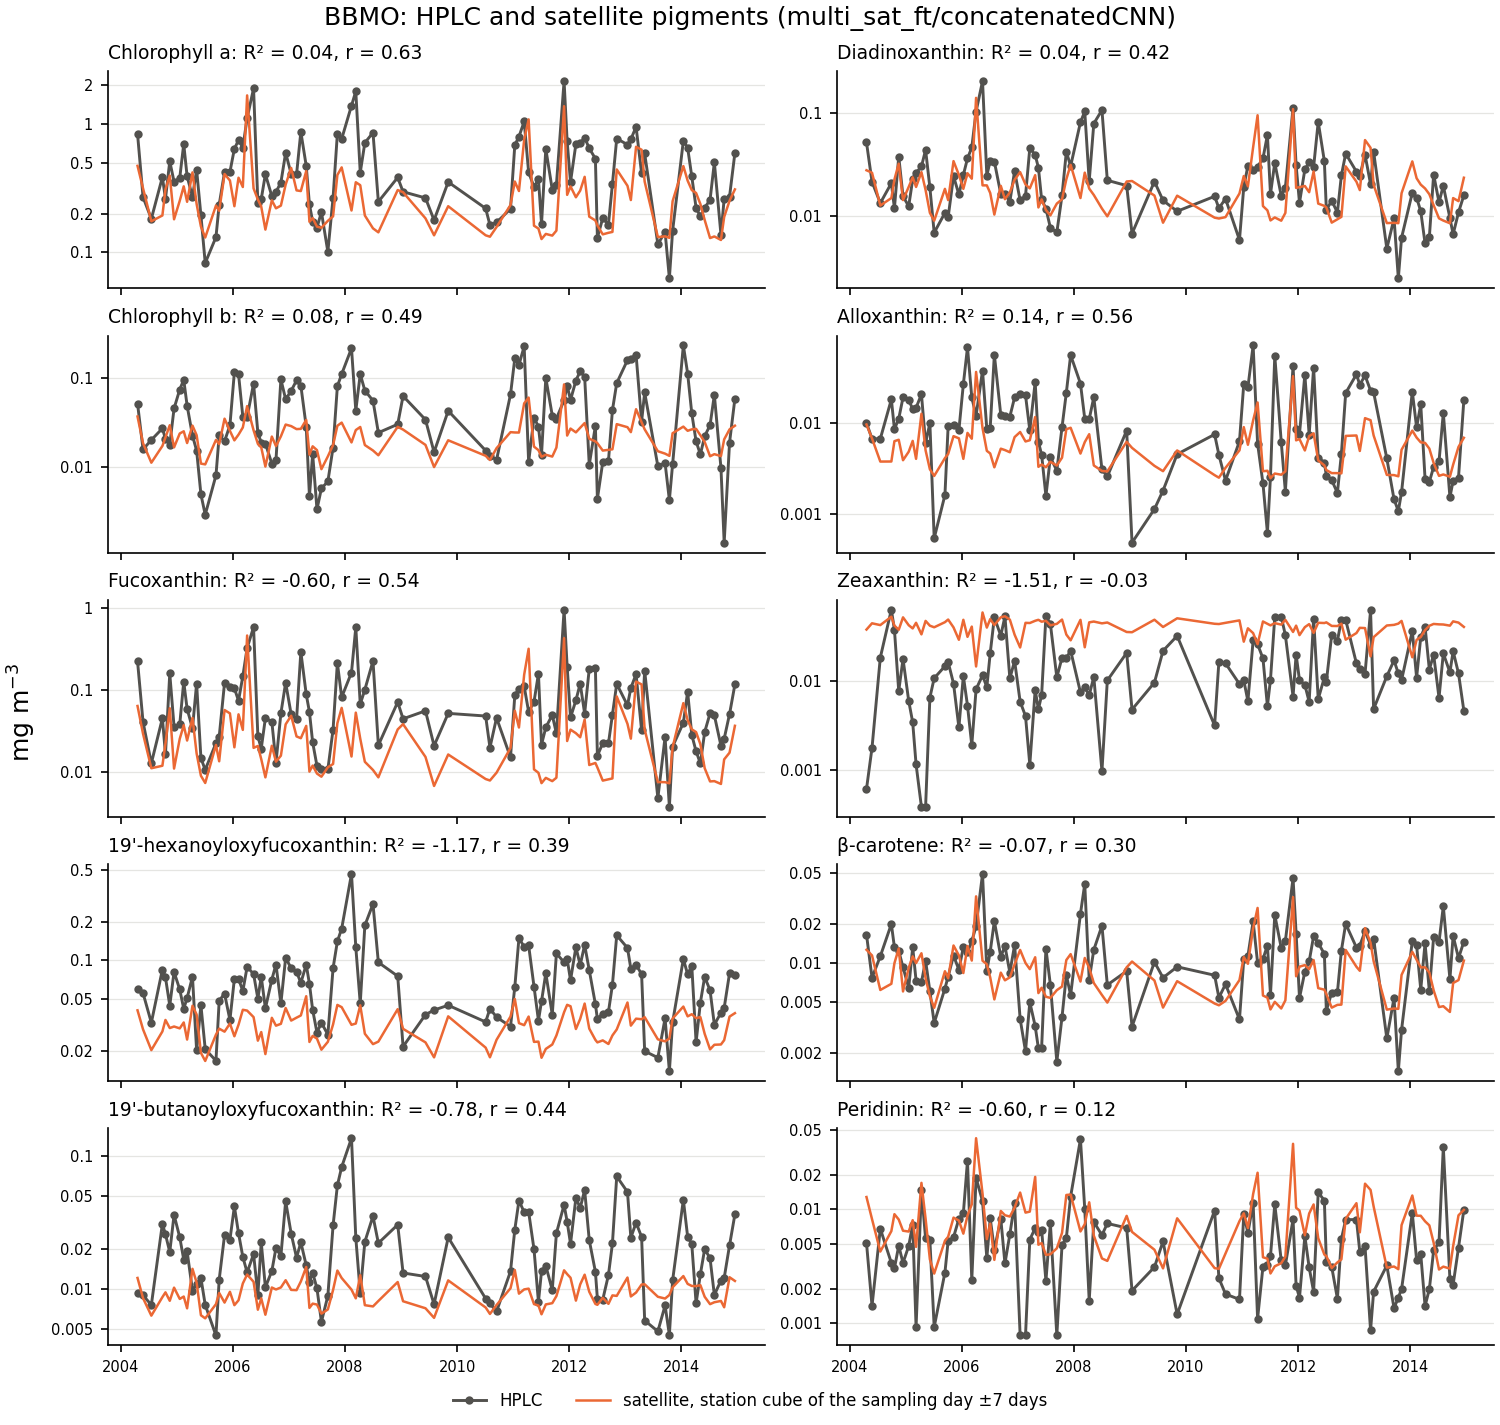
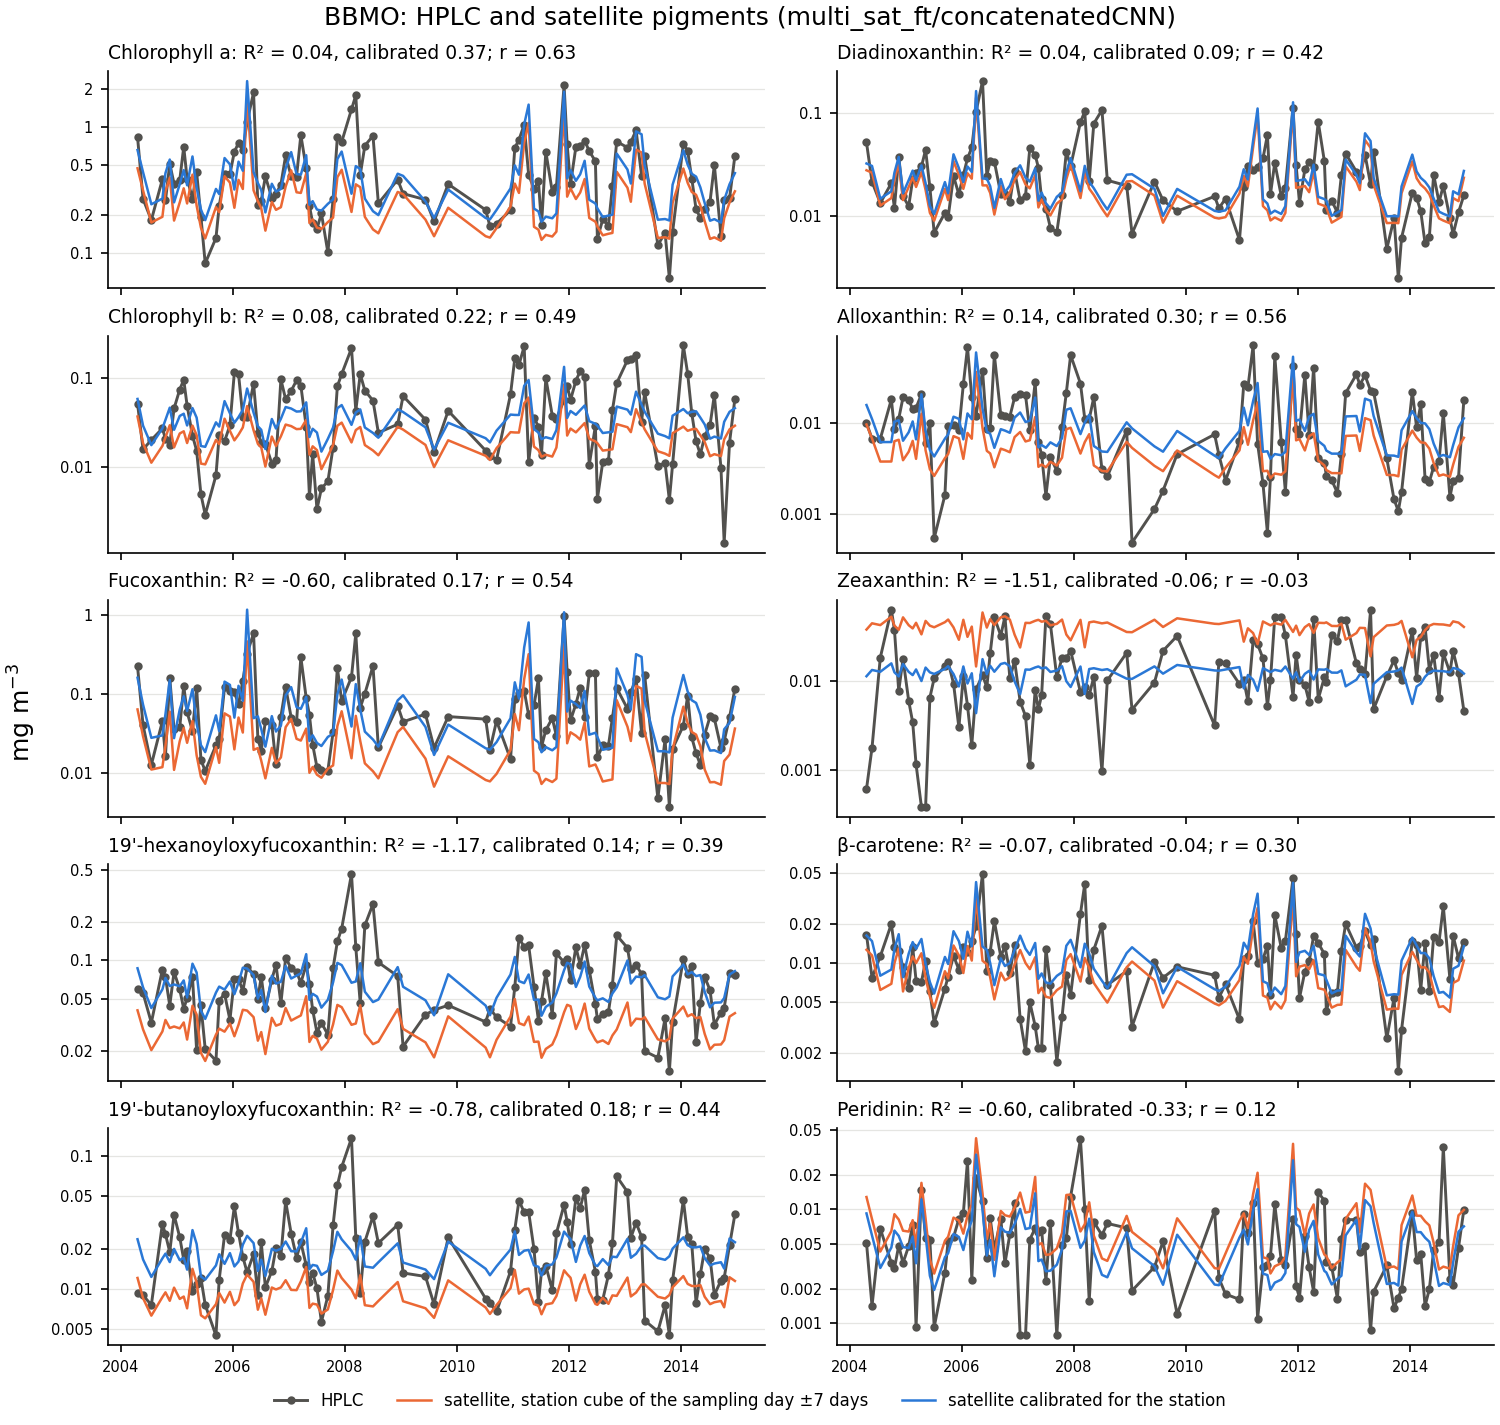
Calibrate the Task 1 pigments per station against HPLC in the check

diff --git a/task1/scripts/hplc_check.py b/task1/scripts/hplc_check.py
@@ -10,6 +10,12 @@ their median is compared with the HPLC pigments, for the 10 pigments of the prop
 Pearson r of ln(pigment), and MAPE and MPE (bias) of the concentrations, as in the Task 1 paper.
 Writes task1/data/hplc_check.csv and, for the model of the record, task1/figures/hplc_check.png
 (each pigment, all samples) and task1/figures/hplc_series_<station>.png (each pigment over time).
+
+The bias of the model depends on the station, so the model of the record is also calibrated per
+station: each pigment times the median HPLC/satellite ratio of all the samples of the station
+(task1/data/station_factors.csv). The calibrated pigments are scored (on the samples the factors
+come from, so optimistically) and drawn in the series. The calibration is not applied to the
+satellite record.
 """
 from __future__ import annotations
 
@@ -26,6 +32,7 @@ from pigment_retrieval.predict.predict import Predictor, available_models  # noq
 DATA_DIR = Path("task2/PETRIMED/DATA")
 STATION_CUBES = Path("task1/data/station_matchups/datasets/optics.nc")
 OUTPUT = Path("task1/data/hplc_check.csv")
+FACTORS = Path("task1/data/station_factors.csv")
 FIGURES = Path("task1/figures")
 RECORD_MODEL = "multi_sat_ft/concatenatedCNN"   # the model of the satellite record
 SERIES = ["BBMO", "SOLA"]                       # stations with a time series of samples
@@ -37,7 +44,7 @@ PAIRS = {"chl_a": "Chl_a", "chl_b": "Chl_b", "fucox": "Fucoxanthin", "hxfcx": "1
 NAMES = {"chl_a": "Chlorophyll a", "chl_b": "Chlorophyll b", "fucox": "Fucoxanthin",
          "hxfcx": "19'-hexanoyloxyfucoxanthin", "btfcx": "19'-butanoyloxyfucoxanthin", "diadi": "Diadinoxanthin",
          "allox": "Alloxanthin", "zeaxa": "Zeaxanthin", "betac": "β-carotene", "perid": "Peridinin"}
-INK, SATELLITE = "#52514e", "#eb6834"
+INK, SATELLITE, CALIBRATED = "#52514e", "#eb6834", "#2a78d6"
 STATION_COLORS = {"BBMO": "#2a78d6", "SOLA": "#eb6834", "MOLA": "#1baf7a"}
 
 
@@ -101,6 +108,13 @@ def plot_scatter(hplc: pd.DataFrame, predicted: pd.DataFrame, stations: pd.Serie
     plt.close(fig)
 
 
+def calibrate(hplc: pd.DataFrame, predicted: pd.DataFrame, stations: pd.Series) -> tuple[pd.DataFrame, pd.DataFrame]:
+    """Per-station factors, the median HPLC/satellite ratio of each pigment over all the samples of
+    the station, and the pigments calibrated with the factors of their station."""
+    factors = np.exp((np.log(hplc.where(hplc > 0)) - np.log(predicted)).groupby(stations).median())
+    return factors.rename_axis("station"), predicted * factors.loc[stations].set_axis(predicted.index)
+
+
 def label_log_axis(ax) -> None:
     """Plain labels at 1, 2 and 5 of each decade on a narrow log y axis, at each decade on a wide one."""
     from matplotlib.ticker import FuncFormatter, LogLocator, NullLocator
@@ -110,29 +124,34 @@ def label_log_axis(ax) -> None:
     ax.yaxis.set_minor_locator(NullLocator())
 
 
-def plot_series(hplc: pd.DataFrame, predicted: pd.DataFrame, dates: pd.Series, title: str, path: Path) -> None:
-    """HPLC and satellite pigments of one station over time, one panel per pigment."""
+def plot_series(hplc: pd.DataFrame, predicted: pd.DataFrame, calibrated: pd.DataFrame, dates: pd.Series,
+                title: str, path: Path) -> None:
+    """HPLC, satellite and calibrated satellite pigments of one station over time, one panel per pigment."""
     import matplotlib
     matplotlib.use("Agg")
     import matplotlib.pyplot as plt
 
     order = dates.sort_values().index
     table = scores(hplc.loc[order], predicted.loc[order])
+    table_calibrated = scores(hplc.loc[order], calibrated.loc[order])
     fig, axes = plt.subplots(5, 2, figsize=(10, 9.5), sharex=True, layout="constrained")
     for ax, pigment in zip(axes.T.flat, PAIRS):
         observed = hplc.loc[order, pigment]
         ax.plot(dates[order], observed.where(observed > 0), color=INK, lw=1.4, marker="o", ms=3, label="HPLC")
         ax.plot(dates[order], predicted.loc[order, pigment], color=SATELLITE, lw=1.2,
                 label="satellite, station cube of the sampling day ±7 days")
+        ax.plot(dates[order], calibrated.loc[order, pigment], color=CALIBRATED, lw=1.2,
+                label="satellite calibrated for the station")
         ax.set_yscale("log")
         label_log_axis(ax)
-        ax.set_title(f"{NAMES[pigment]}: R² = {table.loc[pigment, 'R2']:.2f}, r = {table.loc[pigment, 'r']:.2f}",
+        ax.set_title(f"{NAMES[pigment]}: R² = {table.loc[pigment, 'R2']:.2f}, calibrated "
+                     f"{table_calibrated.loc[pigment, 'R2']:.2f}; r = {table.loc[pigment, 'r']:.2f}",
                      fontsize=9, loc="left")
         ax.tick_params(labelsize=7)
         ax.grid(axis="y", color="#e5e5e2", lw=0.6)
         ax.spines[["top", "right"]].set_visible(False)
     fig.supylabel("mg m$^{-3}$")
-    fig.legend(*axes[0, 0].get_legend_handles_labels(), loc="outside lower center", ncol=2, frameon=False,
+    fig.legend(*axes[0, 0].get_legend_handles_labels(), loc="outside lower center", ncol=3, frameon=False,
                fontsize=8)
     fig.suptitle(title)
     path.parent.mkdir(parents=True, exist_ok=True)
@@ -156,9 +175,12 @@ def main() -> int:
             plot_scatter(hplc.loc[at], predicted, samples.loc[at, "ST"],
                          f"{RECORD_MODEL} against HPLC, station cubes of the sampling day ±7 days",
                          FIGURES / "hplc_check.png")
+            factors, calibrated = calibrate(hplc.loc[at], predicted, samples.loc[at, "ST"])
+            factors.to_csv(FACTORS, float_format="%.3f")
+            rows.append(scores(hplc.loc[at], calibrated).assign(model=f"{name}, calibrated per station"))
             for station in SERIES:
                 ids = at[samples.loc[at, "ST"] == station]
-                plot_series(hplc.loc[ids], predicted.loc[ids], samples.loc[ids, "Date"],
+                plot_series(hplc.loc[ids], predicted.loc[ids], calibrated.loc[ids], samples.loc[ids, "Date"],
                             f"{station}: HPLC and satellite pigments ({RECORD_MODEL})",
                             FIGURES / f"hplc_series_{station}.png")
     table = pd.concat(rows).rename_axis("pigment").reset_index()
@@ -166,7 +188,8 @@ def main() -> int:
     table.to_csv(OUTPUT, index=False, float_format="%.3f")
     print(table.query("model == @RECORD_MODEL").drop(columns="model").round(2).to_string(index=False))
     print(table.groupby("model")[["n", "R2", "r", "MAPE"]].median().sort_values("R2").round(2).to_string())
-    print(f"{OUTPUT}, {FIGURES}")
+    print(factors.round(2).to_string())
+    print(f"{OUTPUT}, {FACTORS}, {FIGURES}")
     return 0
 
 

diff --git a/task1/README.md b/task1/README.md
@@ -116,13 +116,30 @@ so it shows whether the satellite pigments rise and fall with the HPLC ones. The
   timing, the measures of Task 4. But the satellite pigments also vary less than the HPLC ones, so
   trends and seasonal amplitudes are damped, though their sign and timing hold, and the composition
   is distorted, which Task 2 corrects before using the pigments.
-- A calibration against HPLC, one factor per pigment, would help where it is fitted: fitted on the
-  other years of the same stations, it raises the median R² from 0.12 to 0.25 (fucoxanthin 0.00 →
-  0.56, chlorophyll a 0.39 → 0.56). But it does not carry over to another site, as the bias depends
-  on the site: fitted at BBMO, it leaves SOLA poor (median R² −1.39 → −0.65), and fitted at SOLA, it
-  makes BBMO worse (−0.33 → −0.49). Mapping the whole distribution (quantile mapping) does no better.
-  It is not applied: most of the record has no HPLC to fit it, a constant factor does not change the
-  trends and seasonal timing of Task 4, and the project applies the published models as they are.
+- The bias depends on the station, so the check also calibrates the model per station: each
+  pigment times one factor, the median HPLC/satellite ratio of all the samples of the station.
+
+  | Factor (HPLC / satellite) | Chl a | Chl b | Fuco | 19'-hex | 19'-but | Diadino | Allo | Zea | β-car | Peri |
+  |---|---|---|---|---|---|---|---|---|---|---|
+  | BBMO | 1.40 | 1.57 | 2.52 | 2.12 | 1.95 | 1.16 | 1.64 | 0.30 | 1.29 | 0.72 |
+  | SOLA | 1.25 | 1.33 | 4.69 | 6.46 | 7.93 | 2.36 | 3.73 | 0.79 | 0.89 | 3.56 |
+  | MOLA | 0.92 | 0.31 | 0.94 | 1.23 | 1.54 | 0.95 | 1.52 | 0.49 | 1.28 | 0.95 |
+
+  Calibrated, the median R² over the 10 pigments goes from 0.12 to 0.58 on the 196 samples, and the
+  median satellite/HPLC ratio of every pigment to about 1. The weak pigments gain most
+  (fucoxanthin 0.00 → 0.64, 19'-hexanoyloxyfucoxanthin −1.73 → 0.65, 19'-butanoyloxyfucoxanthin
+  −1.63 → 0.66, peridinin 0.20 → 0.64); zeaxanthin stays poor (0.19), and β-carotene and
+  chlorophyll b gain little. These scores are on the samples the factors come from, so they are
+  optimistic: with factors from the other years of each station only, the median R² is 0.54 at BBMO
+  and SOLA together, 0.13 within BBMO and 0.28 within SOLA (part of the gain is removing the offset
+  between stations). One factor corrects the level, not the range: the peaks stay flattened.
+- The calibration is not applied to the satellite record, because the factors follow the water type
+  more than the region: the coastal stations need fucoxanthin × 2.5 (BBMO) and × 4.7 (SOLA), the
+  offshore MOLA almost nothing (× 0.94). One regional factor from all the samples, nearly all
+  coastal, would improve the coastal stations a little (median R² at SOLA −1.39 → 0.08) but spoil
+  MOLA (0.40 → −0.02), and the regional maps are mostly open sea. The factors
+  (`task1/data/station_factors.csv`) give the absolute concentrations at the three stations, while a
+  constant factor would not change the trends and seasonal timing of Task 4.
 - Of the five CNNs, the one of the record, fine-tuned with satellite matchups, has the best median
   R² (0.12, against −0.22 to −0.06) and is the best for chlorophylls a and b and fucoxanthin. The
   others do better for 19'-hexanoyloxyfucoxanthin (r = 0.58–0.60 for three of them, against 0.43)
@@ -145,10 +162,12 @@ so it shows whether the satellite pigments rise and fall with the HPLC ones. The
   <img src="report/hplc_series_BBMO.png" width="80%" alt="HPLC and satellite pigments at BBMO, 2004-2014">
 </p>
 
-*HPLC and satellite pigments at BBMO, 2004–2014; R² and r of this station.*
+*HPLC and satellite pigments at BBMO, 2004–2014, as retrieved and calibrated for the station; R² and
+r of this station.*
 
 <p align="center">
   <img src="report/hplc_series_SOLA.png" width="80%" alt="HPLC and satellite pigments at SOLA, 2015-2016">
 </p>
 
-*HPLC and satellite pigments at SOLA, 2015–2016; R² and r of this station.*
+*HPLC and satellite pigments at SOLA, 2015–2016, as retrieved and calibrated for the station; R² and
+r of this station.*

diff --git a/README.md b/README.md
@@ -93,6 +93,9 @@ python task3/scripts/validate_chain.py
 - The underestimation is coastal and grows with concentration (13–21% of HPLC for those pigments in
   the SOLA blooms, nearly unbiased offshore at MOLA). It damps trends and seasonal amplitudes
   without changing their sign or timing, and it distorts the composition that Task 2 uses.
+- Calibrated per station with HPLC (one factor per pigment and station), the median R² rises from
+  0.12 to 0.58 (0.54 with factors from other years). The factors depend on the water type
+  (fucoxanthin × 4.7 at SOLA, × 0.94 offshore at MOLA), so they are not applied to the regional maps.
 - The CNN of the record, fine-tuned with satellite matchups, is the best of the Task 1 CNNs at the
   stations. Small windows (5 km) and ±7 days around the sample work best: larger areas add offshore
   water.
